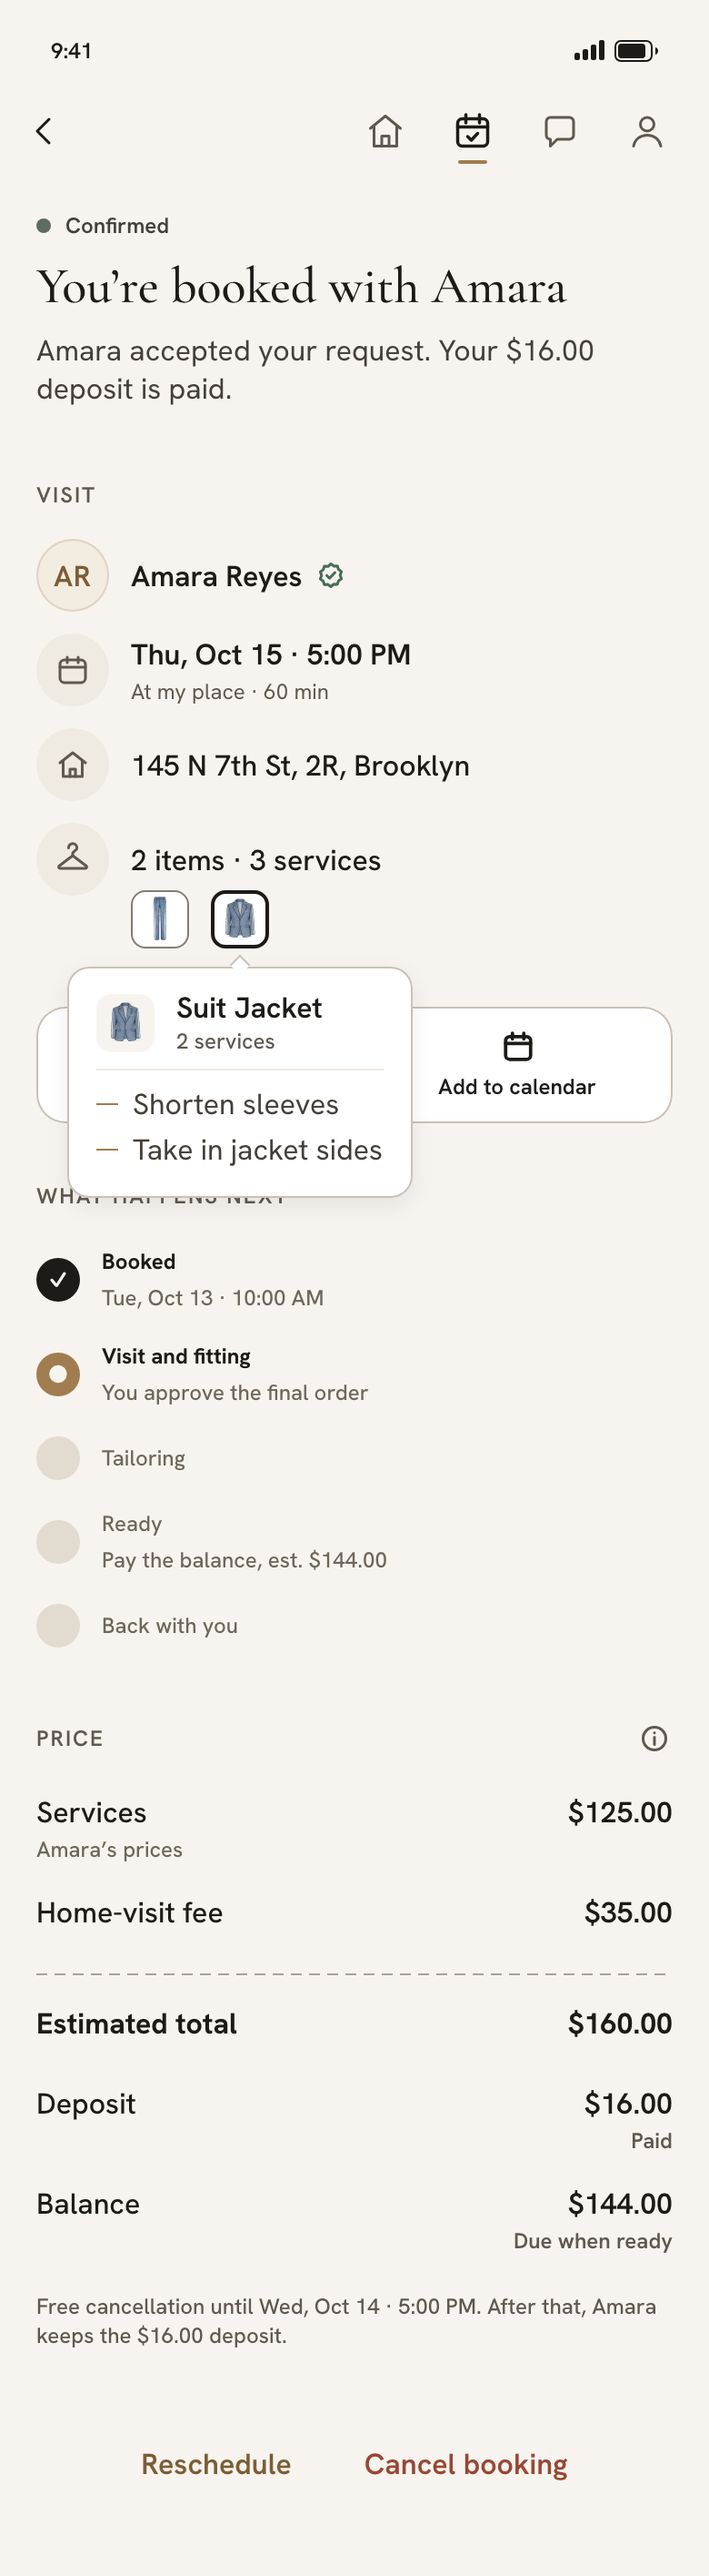
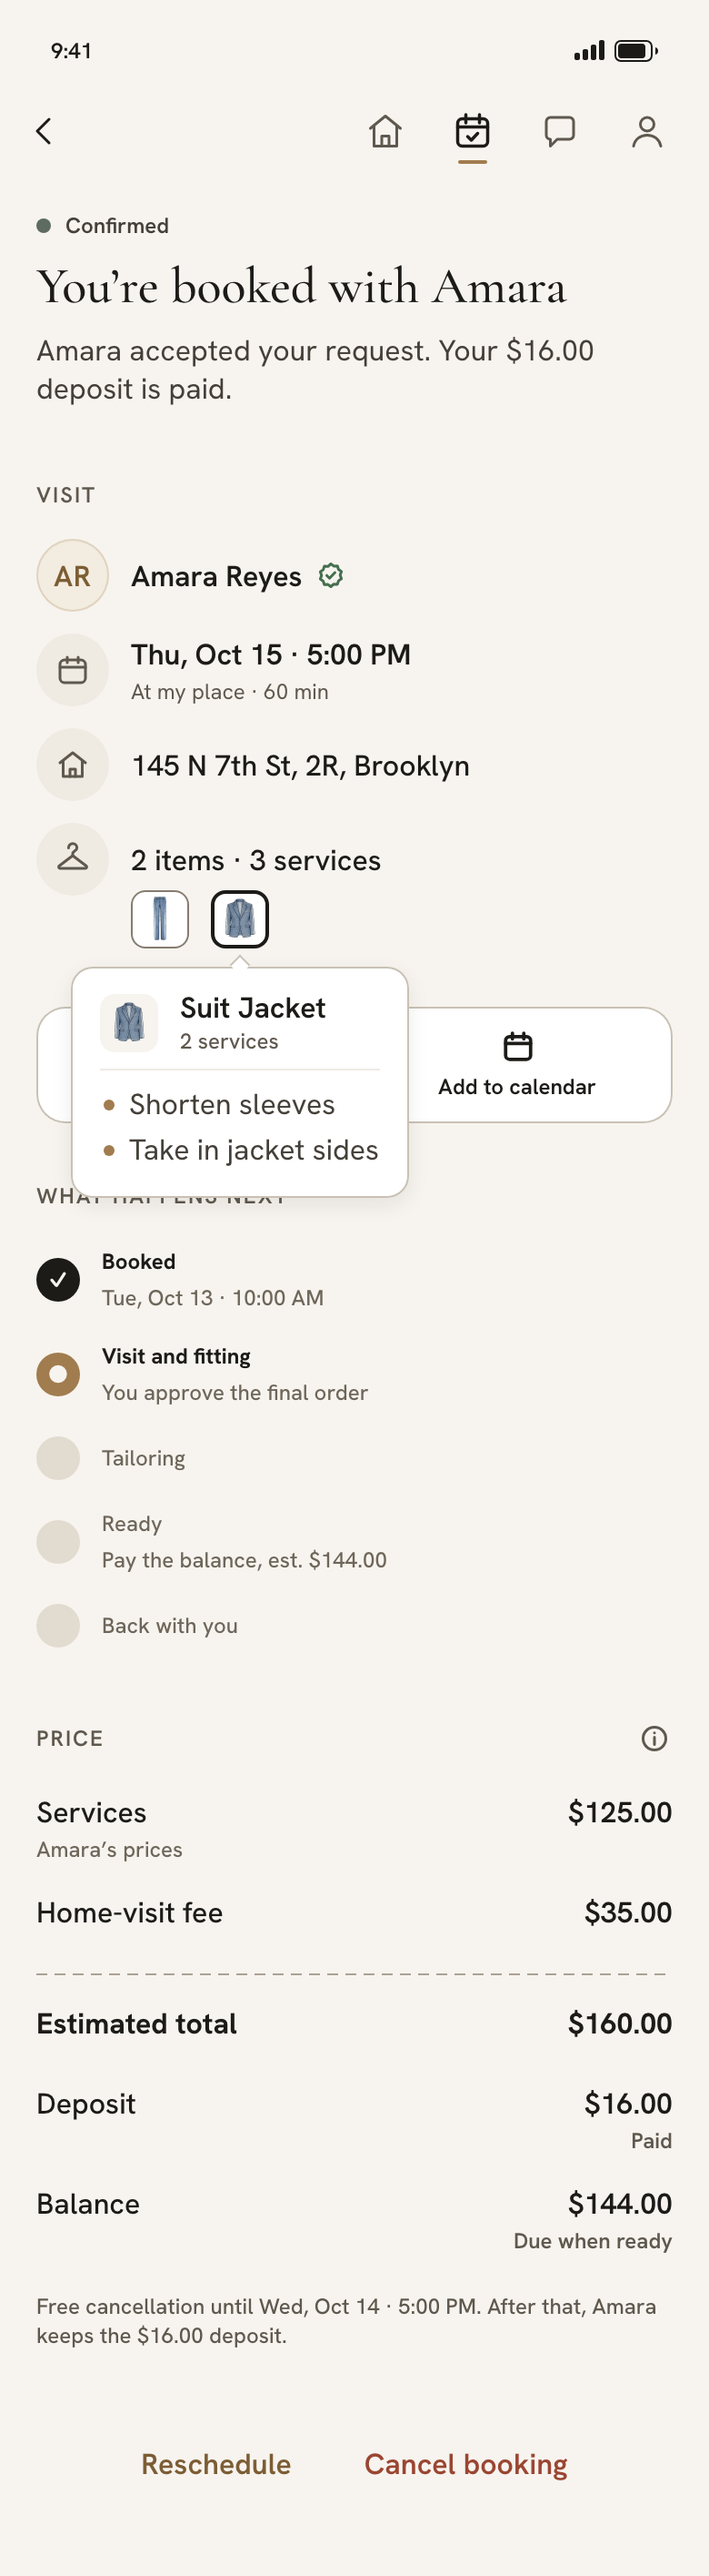
v5 K-25 rev: garment popover services use round cognac bullets instead of stitch dashes
Visual baselines accepted: c-booking--item-peek, t-home--item-peek. npm run check: ALL PASS.

diff --git a/css/components-v5.css b/css/components-v5.css
@@ -1145,8 +1145,8 @@ a.cta-small { text-decoration: none; }
 .garment-pop__name { overflow-wrap: anywhere; }
 .garment-pop__count { font-variant-numeric: tabular-nums lining-nums; }
 .garment-pop__svcs { display: flex; flex-direction: column; gap: var(--space-4); margin: var(--space-8) 0 0; padding: 0; list-style: none; }
-.garment-pop__svcs li { position: relative; padding-left: var(--space-20); text-wrap: pretty; overflow-wrap: anywhere; }
-.garment-pop__svcs li::before { content: ''; position: absolute; left: 0; top: calc(0.5em * var(--lh-16) - 1px); width: var(--space-12); height: var(--stitch-w); background: var(--accent-base); }
+.garment-pop__svcs li { position: relative; padding-left: var(--space-16); text-wrap: pretty; overflow-wrap: anywhere; }
+.garment-pop__svcs li::before { content: ''; position: absolute; left: var(--space-2); top: calc(0.5em * var(--lh-16) - var(--space-2) - 1px); width: calc(var(--space-4) + var(--space-2)); height: calc(var(--space-4) + var(--space-2)); border-radius: 50%; background: var(--accent-base); }   /* K-25 rev: a round cognac bullet per service (was a 12 px stitch dash) */
 
 /* ---------- rating line (A5.8, D-190) ---------- */
 .rating-line { display: inline-flex; align-items: center; gap: var(--space-4); }

diff --git a/index.html b/index.html
@@ -99,7 +99,7 @@
 <link rel="stylesheet" href="css/tokens.css?v=4fe922a103">
 <link rel="stylesheet" href="css/base.css?v=b0205a5eac">
 <link rel="stylesheet" href="css/components.css?v=72c690d20a">
-<link rel="stylesheet" href="css/components-v5.css?v=2712df76ca">
+<link rel="stylesheet" href="css/components-v5.css?v=d201027e09">
 <link rel="stylesheet" href="css/flow-menu.css?v=25134adb8c">
 <!-- one stylesheet per screen (css/screens/<id>.css); add a link when a screen lands -->
 <link rel="stylesheet" href="css/screens/sys-index.css?v=daf0ea9613">

diff --git a/components.html b/components.html
@@ -12,7 +12,7 @@
 <link rel="stylesheet" href="css/tokens.css?v=4fe922a103">
 <link rel="stylesheet" href="css/base.css?v=b0205a5eac">
 <link rel="stylesheet" href="css/components.css?v=72c690d20a">
-<link rel="stylesheet" href="css/components-v5.css?v=2712df76ca">
+<link rel="stylesheet" href="css/components-v5.css?v=d201027e09">
 <link rel="stylesheet" href="css/screens/sys-components.css?v=416821045e">
 </head>
 <body>

diff --git a/docs/v5/DECISIONS.md b/docs/v5/DECISIONS.md
@@ -350,5 +350,5 @@ Format: `- **D-##** (M#, role) DEFAULTED — <decision>. Why: <reason>. Overrule
 
 - **K-24** (Kevin, Oct 2026) LOCKED — **c-ready "Your order is ready" = R3** from https://claude.ai/artifact/GnQRDRD85RwKt4rtCrzaDp (scratchpad k32/): the linen stage carries the title — `linenStage({ eyebrow: "Finished · <day it was marked ready>", title: "Your order is ready", rail: hangStage(...) })` with the K-22 thread hang stage (tag "Sarah C. · Ready", caption "N items · M services" / "at <shop>", K-21 sliding rail at 4+), then the existing body on the page ground directly above "How do you want it back?". Everything else on c-ready unchanged. Cost accepted: the way-back choice starts ~284 px lower.
 
-- **K-25** (Kevin, Oct 2026) LOCKED — **Garment services popover = P2** from https://claude.ai/artifact/Nghv4SHTrKovrGwfNN5X7p (scratchpad k33/): tapping a garment thumb opens a white card in the K-15 Verified popover shell (white, neutral-300 inset stroke, --shadow-float, radius 12, arrow on the thumb): head = 32 px thumb + garment name (16/600) + "N services" (12, neutral-600), hairline, then each service (16/400 neutral-700) on a short cognac stitch dash. No prices. **Scope rule:** a garment picture in a well (garmentStrip — c-booking Visit block in every state, c-request "Your request") opens it per thumb; the t-home request / waiting card's count cluster ("2 items · 3 services") is ONE trigger listing every item (card moves to a stretched-link layout, no nested controls); a bare garment icon next to its name (garmentHead, tag rail, hang stage, Your order / The work, apptRow / threadRow / earnings rows, c-job picker) never opens it. Behaviour: thumb = 44 px button (aria-haspopup=dialog, aria-expanded, aria-controls), non-modal role=dialog shared with the Verified popover slot (one open at a time), tap toggles / another thumb moves it / outside tap or focus-out closes / Esc returns focus, flips above near the viewport bottom, clamps 12 px inside the column, max-width 280; closed thumb well gets a 1 px neutral-500 stroke, open thumb a 2 px ink ring; motion only under prefers-reduced-motion: no-preference.
+- **K-25** (Kevin, Oct 2026) LOCKED — **Garment services popover = P2** from https://claude.ai/artifact/Nghv4SHTrKovrGwfNN5X7p (scratchpad k33/): tapping a garment thumb opens a white card in the K-15 Verified popover shell (white, neutral-300 inset stroke, --shadow-float, radius 12, arrow on the thumb): head = 32 px thumb + garment name (16/600) + "N services" (12, neutral-600), hairline, then each service (16/400 neutral-700) after a small round cognac bullet (revised from a stitch dash, Kevin, Oct 2026). No prices. **Scope rule:** a garment picture in a well (garmentStrip — c-booking Visit block in every state, c-request "Your request") opens it per thumb; the t-home request / waiting card's count cluster ("2 items · 3 services") is ONE trigger listing every item (card moves to a stretched-link layout, no nested controls); a bare garment icon next to its name (garmentHead, tag rail, hang stage, Your order / The work, apptRow / threadRow / earnings rows, c-job picker) never opens it. Behaviour: thumb = 44 px button (aria-haspopup=dialog, aria-expanded, aria-controls), non-modal role=dialog shared with the Verified popover slot (one open at a time), tap toggles / another thumb moves it / outside tap or focus-out closes / Esc returns focus, flips above near the viewport bottom, clamps 12 px inside the column, max-width 280; closed thumb well gets a 1 px neutral-500 stroke, open thumb a 2 px ink ring; motion only under prefers-reduced-motion: no-preference.
 - **D-253** (K-25 build, garment popover) DEFAULTED — K-25 built (P2). Calls: (a) **One popover**: `anchorPopover(btn, html, { id, cls, label, aim })` + `closeAnchorPopover()` in components.js replace the K-15 Verified-only code; shell `.anchor-pop` (+ `.anchor-pop__arrow`) with two skins, `.verified-pop` (unchanged look) and `.garment-pop`; one slot (`activePop`), so opening either closes the other; `closeOverlay()` closes it. `openVerifiedPopover`, `closeVerifiedPopover`, `wireVerified` stay as names (the last two are aliases); app.js now calls `wirePopovers(el)`, which delegates `[data-verified]` and `[data-peek]`. A peek trigger carries its items as JSON in `data-peek` (`peekAttrs(items, label)`), the dialog name in `data-peek-label`; ids are `verified-pop` / `garment-pop` (each trigger's aria-controls). (b) A second tap now also puts focus back on the trigger (K-15 left it where the click put it; same in Chrome, fixes Safari). The Verified fade now runs only under prefers-reduced-motion: no-preference and never under `html.is-test` (it ran unless reduce); c-booking--verified-open's diff equals c-booking's thumb-stroke diff (1697 px), the popover itself 0 px. (c) **Strip**: `garmentStrip(items)` takes `{ type, services }` from `returnedItems(a)` (the approved lines once they exist) on c-booking (every state that shows the Visit block: confirmed, rescheduled, fitting, cancelled, cancelled late, can't make it, no-show) and c-request (every state). Thumb label "Suit Jacket: show services"; "+N" = "N more items: show services", listing only the hidden items under the dialog name "N more items". Bare type strings still render (no services). (d) **Card**: min width 160, max 280 (column − 24 at 320); several items scroll past 320 px (8 × 40) and the list then becomes a focusable `role="region"` "…, scroll for more"; dialog names = the garment / "Sarah’s order" / "2 more items". The stitch dash sits at half a line − 1 px (crisp at 2×). (e) **t-home card**: `<div class="request-card card">` + `.request-card__link` (an empty button over the whole card, z 1, carrying `data-act` / `data-id` and the card's old aria-label); the strip, header and time are aria-hidden (the link says it, as the old card button did); the cluster is `<button class="request-card__count peek-cluster">` (z 2, ::before pad to 44 px, label "2 items, 3 services: show what’s in the order"), count underlined neutral-500, 2 px ink when open; the press scale moved to `.request-card:has(> .request-card__link:active)`. Applies to the New requests and Waiting on Sarah cards; the gallery card passes items too. (f) Hover (hover-capable only): thumb stroke ink, cluster underline ink; the thumb press scale is motion-safe and off under test. (g) **Tests**: flows `c-booking--item-peek` (Suit Jacket), `c-request--item-peek` (Suit Pant · 1 service · Hem pants), `t-home--item-peek` (both items), inventory kind `overlay`, SCREENS.md; the flow runner has no key step, so toggle / move / Escape-returns-focus / outside tap / flip above / 12 px clamp / one slot with Verified / the card still opens t-request are journey **J14**. Re-baselined (thumb stroke + 12 gap, count underline, index / gallery): c-request (+ --withdraw, --soon, --suggested, --declined, --expired, --expired-2, --expired-final, --expired-passed, --suggested-passed), c-booking (+ --confirmed, --verified-open, --cancelled, --cancelled-late, --cant-make-it, --no-show, --fitting), t-home (+ --push-denied, --push, --no-requests, --no-upcoming, --soon, --suggested, --suggested-soon, --paused, --retried), sys-offline-tailor, sys-index, sys-components. Why: K-25 leaves the plumbing to the build. Overrule: `garmentStrip` back to bare types (drop `peekAttrs`), `requestCard` back to one `<button>` from git history.
